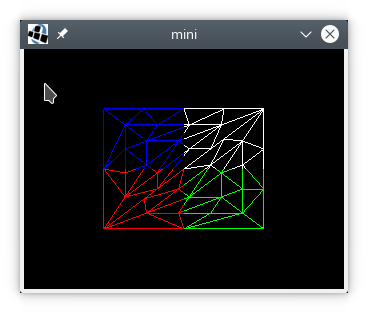
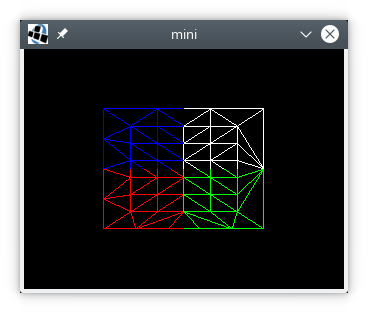
Use quads in tessellation example

Changed region(s): [[0.269, 0.345, 0.7174, 0.7476], [0.1196, 0.2588, 0.1495, 0.345], [0.269, 0.7188, 0.2989, 0.7476]]

diff --git a/_posts/2020-12-19-opengl-tessellation-clojure.md b/_posts/2020-12-19-opengl-tessellation-clojure.md
@@ -21,7 +21,7 @@ The example uses several shaders required when doing tessellation using OpenGL:
 * a fragment shader
 
 The example not only shows how to set the tessellation level but it also shows how one can pass through texture coordinates.
-The polygon mode was switched to display lines only so that one can observe how the triangles are split up.
+The polygon mode was switched to display lines only so that one can observe how the quad is split up.
 
 See code below:
 
@@ -41,7 +41,7 @@ void main()
 }")
 
 (def tcs-source "#version 410 core
-layout(vertices = 3) out;
+layout(vertices = 4) out;
 in mediump vec2 texcoord_tcs[];
 out mediump vec2 texcoord_tes[];
 void main(void)
@@ -50,28 +50,30 @@ void main(void)
     gl_TessLevelOuter[0] = 2.0;
     gl_TessLevelOuter[1] = 3.0;
     gl_TessLevelOuter[2] = 4.0;
-    gl_TessLevelInner[0] = 5.0;
+    gl_TessLevelOuter[3] = 5.0;
+    gl_TessLevelInner[0] = 6.0;
+    gl_TessLevelInner[1] = 7.0;
   }
   gl_out[gl_InvocationID].gl_Position = gl_in[gl_InvocationID].gl_Position;
   texcoord_tes[gl_InvocationID] = texcoord_tcs[gl_InvocationID];
 }")
 
 (def tes-source "#version 410 core
-layout(triangles, equal_spacing, ccw) in;
+layout(quads, equal_spacing, ccw) in;
 in mediump vec2 texcoord_tes[];
 out mediump vec2 texcoord_geo;
 void main()
 {
-  gl_Position.xyzw = gl_in[0].gl_Position.xyzw * gl_TessCoord.x +
-                     gl_in[1].gl_Position.xyzw * gl_TessCoord.y +
-                     gl_in[2].gl_Position.xyzw * gl_TessCoord.z;
-  texcoord_geo = texcoord_tes[0] * gl_TessCoord.x +
-                 texcoord_tes[1] * gl_TessCoord.y +
-                 texcoord_tes[2] * gl_TessCoord.z;
+  vec4 a = mix(gl_in[0].gl_Position, gl_in[1].gl_Position, gl_TessCoord.x);
+  vec4 b = mix(gl_in[3].gl_Position, gl_in[2].gl_Position, gl_TessCoord.x);
+  gl_Position = mix(a, b, gl_TessCoord.y);
+  vec2 c = mix(texcoord_tes[0], texcoord_tes[1], gl_TessCoord.x);
+  vec2 d = mix(texcoord_tes[3], texcoord_tes[2], gl_TessCoord.x);
+  texcoord_geo = mix(c, d, gl_TessCoord.y);
 }")
 
 (def geo-source "#version 410 core
-layout(triangles, invocations = 1) in;
+layout(triangles) in;
 in mediump vec2 texcoord_geo[3];
 layout(triangle_strip, max_vertices = 3) out;
 out mediump vec2 UV;
@@ -79,7 +81,7 @@ void main(void)
 {
 	gl_Position = gl_in[0].gl_Position;
   UV = texcoord_geo[0];
-	EmitVertex();
+	EmitVertex();	
 	gl_Position = gl_in[1].gl_Position;
   UV = texcoord_geo[1];
 	EmitVertex();
@@ -105,7 +107,7 @@ void main()
                  0.5 -0.5 0.0 1.0 0.0]))
 
 (def indices
-  (int-array [0 1 2 0 2 3]))
+  (int-array [0 1 2 3]))
 
 (def pixels
   (float-array [0.0 0.0 1.0
@@ -186,8 +188,8 @@ void main()
   (GL11/glClearColor 0.0 0.0 0.0 0.0)
   (GL11/glClear (bit-or GL11/GL_COLOR_BUFFER_BIT GL11/GL_DEPTH_BUFFER_BIT))
   (GL20/glUseProgram program)
-  (GL40/glPatchParameteri GL40/GL_PATCH_VERTICES 3)
-  (GL11/glDrawElements GL40/GL_PATCHES 6 GL11/GL_UNSIGNED_INT 0)
+  (GL40/glPatchParameteri GL40/GL_PATCH_VERTICES 4)
+  (GL11/glDrawElements GL40/GL_PATCHES 4 GL11/GL_UNSIGNED_INT 0)
   (Display/update)
   (Thread/sleep 40))
 
@@ -213,14 +215,6 @@ void main()
 (GL20/glDeleteShader fragment-shader)
 
 (Display/destroy)
-{% endhighlight %}
-
-You can run the code as follows:
-
-{% highlight shell %}
-sudo apt-get install liblwjgl-java clojure
-wget http://www.wedesoft.de/downloads/tessellation-opengl.clj
-clojure -cp /usr/share/java/lwjgl.jar tessellation-opengl.clj
 {% endhighlight %}
 
 ![image](/pics/square.png)
